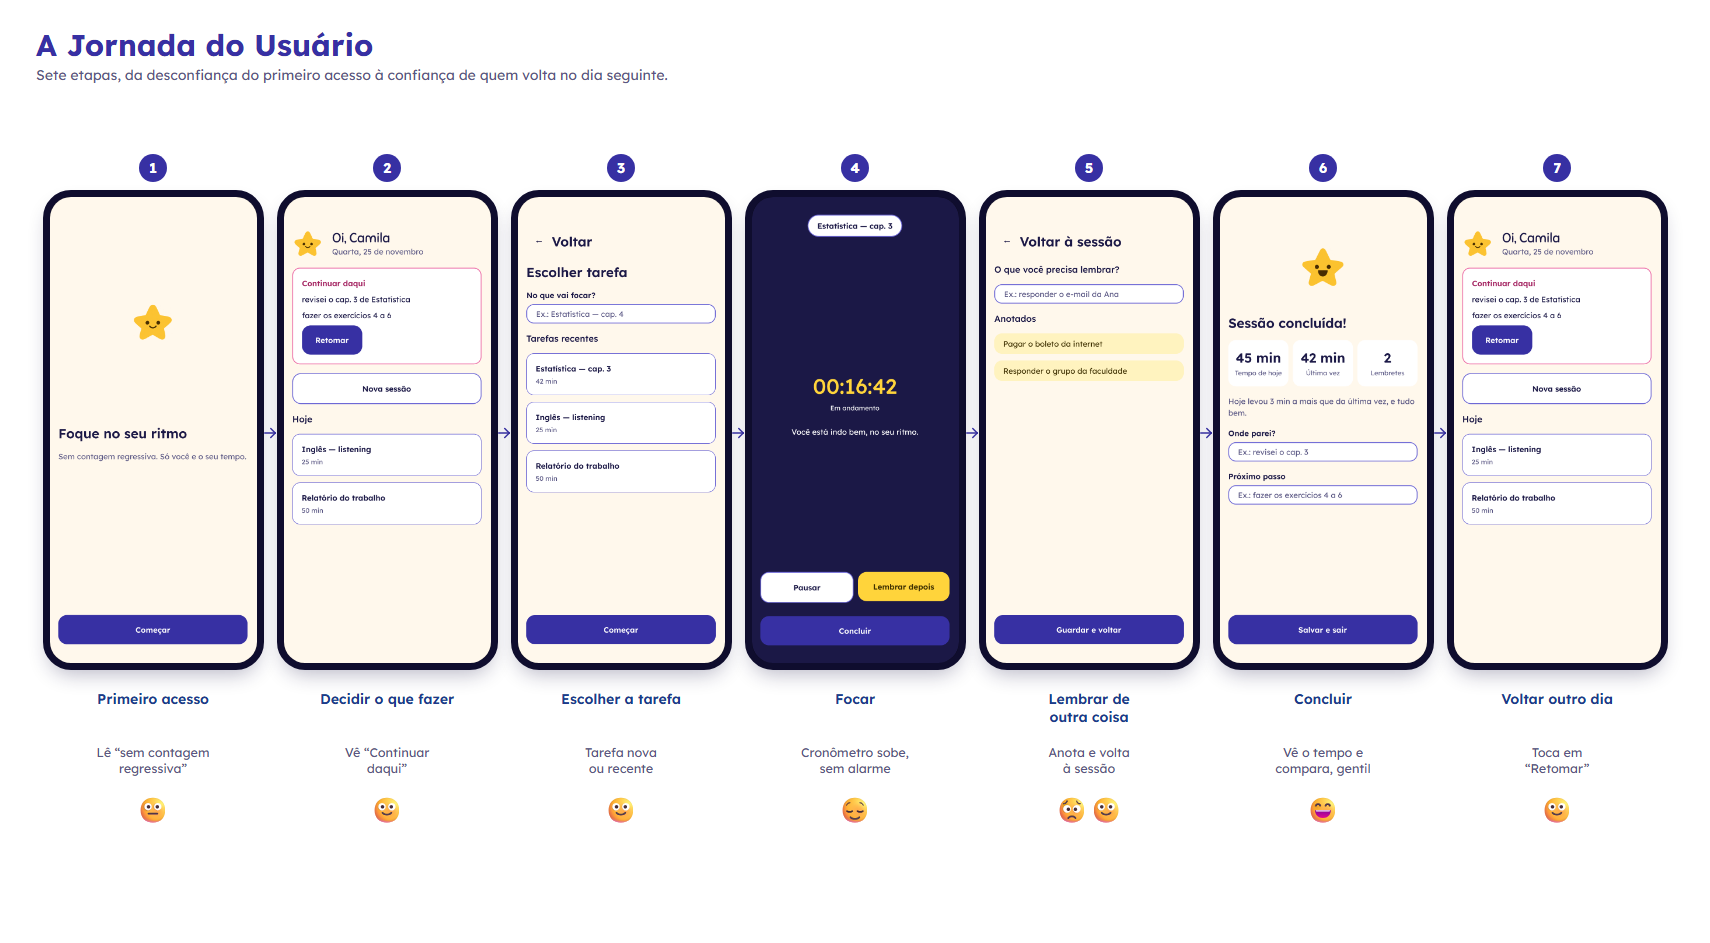
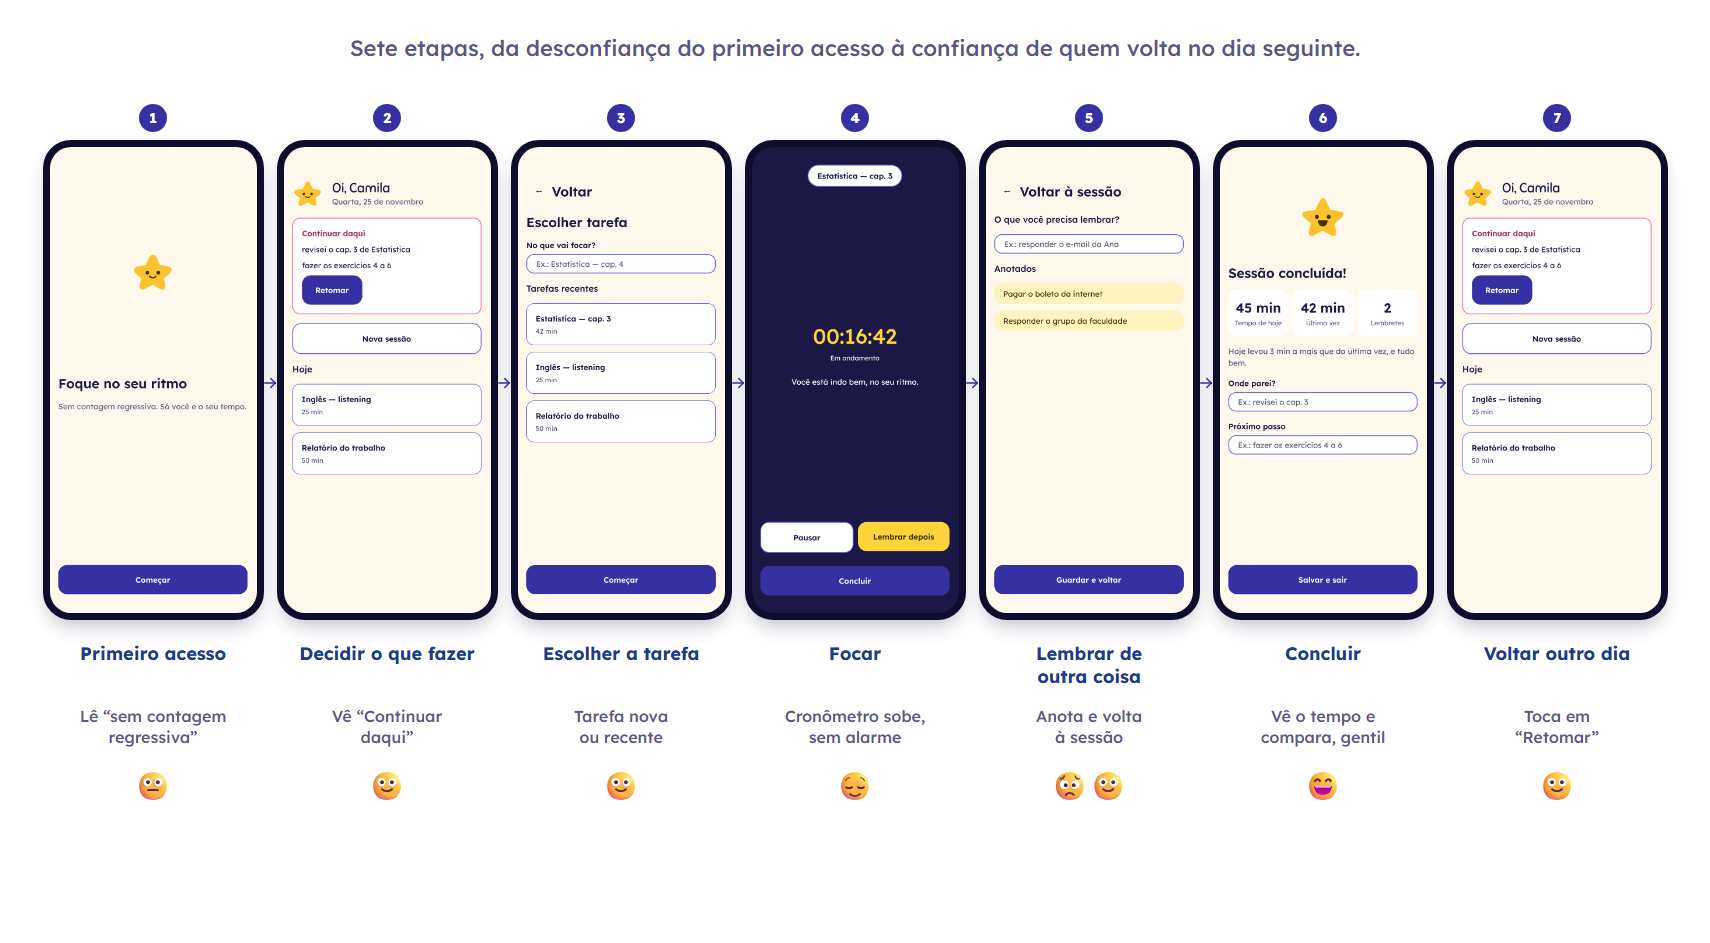
Melhora legibilidade da imagem jornada-usuario
Remove o titulo, centraliza e aumenta a descricao, e aumenta o
tamanho dos textos abaixo das telas (nome da etapa e acao).

diff --git a/video-editor/slides-src/jornada_usuario.py b/video-editor/slides-src/jornada_usuario.py
@@ -43,13 +43,11 @@ MARGIN = 36
 COL_W = (W - 2 * MARGIN) / len(STEPS)
 PHONE_H = 480
 PHONE_W = int(PHONE_H * 390 / 844)
-PHONE_TOP = 190
+PHONE_TOP = 140
 
 body = ""
-body += f'''<div style="position:absolute; top:26px; left:{MARGIN}px; font-family:'Lexend'; font-weight:700;
-  font-size:30px; color:{INDIGO};">A Jornada do Usuário</div>'''
-body += f'''<div style="position:absolute; top:66px; left:{MARGIN}px; width:{W - 2 * MARGIN}px; font-family:'Lexend';
-  font-weight:400; font-size:14px; color:{TEXTO_SEC};">Sete etapas, da desconfiança do primeiro acesso à confiança de quem volta no dia seguinte.</div>'''
+body += f'''<div style="position:absolute; top:34px; left:0px; width:{W}px; text-align:center; font-family:'Lexend';
+  font-weight:500; font-size:22px; color:{TEXTO_SEC};">Sete etapas, da desconfiança do primeiro acesso à confiança de quem volta no dia seguinte.</div>'''
 
 for i, (num, title, src, action, emoji) in enumerate(STEPS):
     cx = MARGIN + COL_W * i + COL_W / 2
@@ -67,12 +65,12 @@ for i, (num, title, src, action, emoji) in enumerate(STEPS):
 
     title_html = title.replace(chr(10), "<br>")
     action_html = action.replace(chr(10), "<br>")
-    body += f'''<div style="position:absolute; top:{PHONE_TOP + PHONE_H + 20}px; left:{MARGIN + COL_W * i + 4}px; width:{COL_W - 8}px;
-      text-align:center; font-family:'Lexend'; font-weight:600; font-size:14px; color:{TEXTO}; line-height:1.3;">{title_html}</div>'''
-    body += f'''<div style="position:absolute; top:{PHONE_TOP + PHONE_H + 74}px; left:{MARGIN + COL_W * i + 4}px; width:{COL_W - 8}px;
-      text-align:center; font-family:'Lexend'; font-weight:400; font-size:12.5px; color:{TEXTO_SEC}; line-height:1.3;">{action_html}</div>'''
-    body += f'''<div style="position:absolute; top:{PHONE_TOP + PHONE_H + 122}px; left:{MARGIN + COL_W * i}px; width:{COL_W}px;
-      text-align:center; font-size:25px;">{emoji}</div>'''
+    body += f'''<div style="position:absolute; top:{PHONE_TOP + PHONE_H + 22}px; left:{MARGIN + COL_W * i + 2}px; width:{COL_W - 4}px;
+      text-align:center; font-family:'Lexend'; font-weight:700; font-size:18px; color:{TEXTO}; line-height:1.3;">{title_html}</div>'''
+    body += f'''<div style="position:absolute; top:{PHONE_TOP + PHONE_H + 86}px; left:{MARGIN + COL_W * i + 2}px; width:{COL_W - 4}px;
+      text-align:center; font-family:'Lexend'; font-weight:500; font-size:16px; color:{TEXTO_SEC}; line-height:1.3;">{action_html}</div>'''
+    body += f'''<div style="position:absolute; top:{PHONE_TOP + PHONE_H + 146}px; left:{MARGIN + COL_W * i}px; width:{COL_W}px;
+      text-align:center; font-size:28px;">{emoji}</div>'''
 
     if i < len(STEPS) - 1:
         arrow_left = MARGIN + COL_W * (i + 1) - 9
